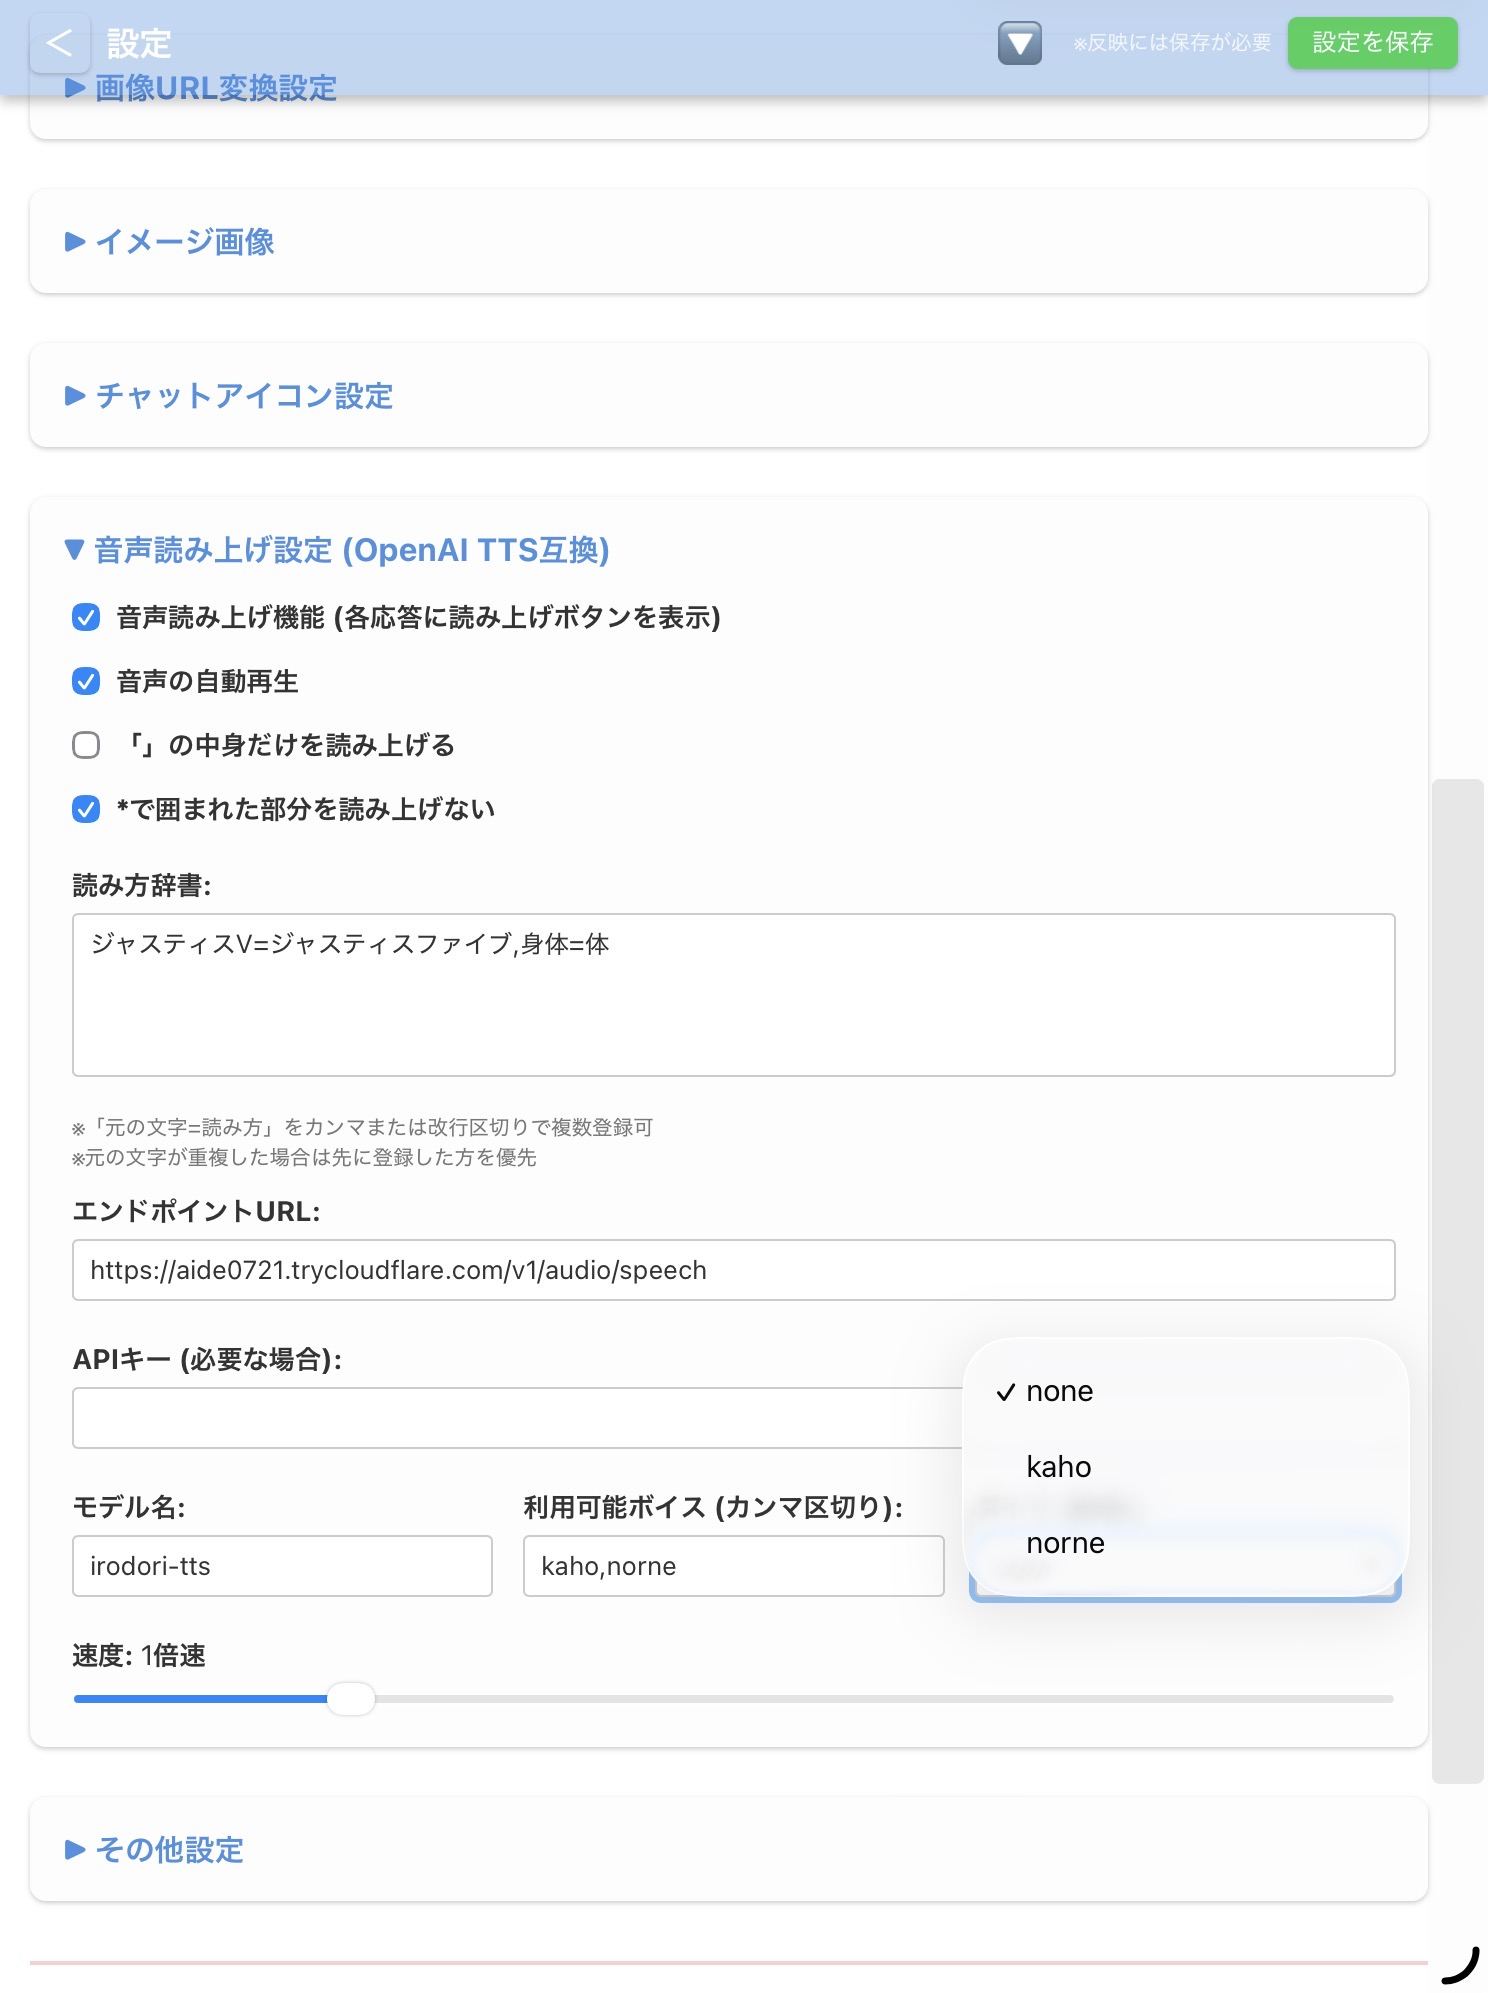
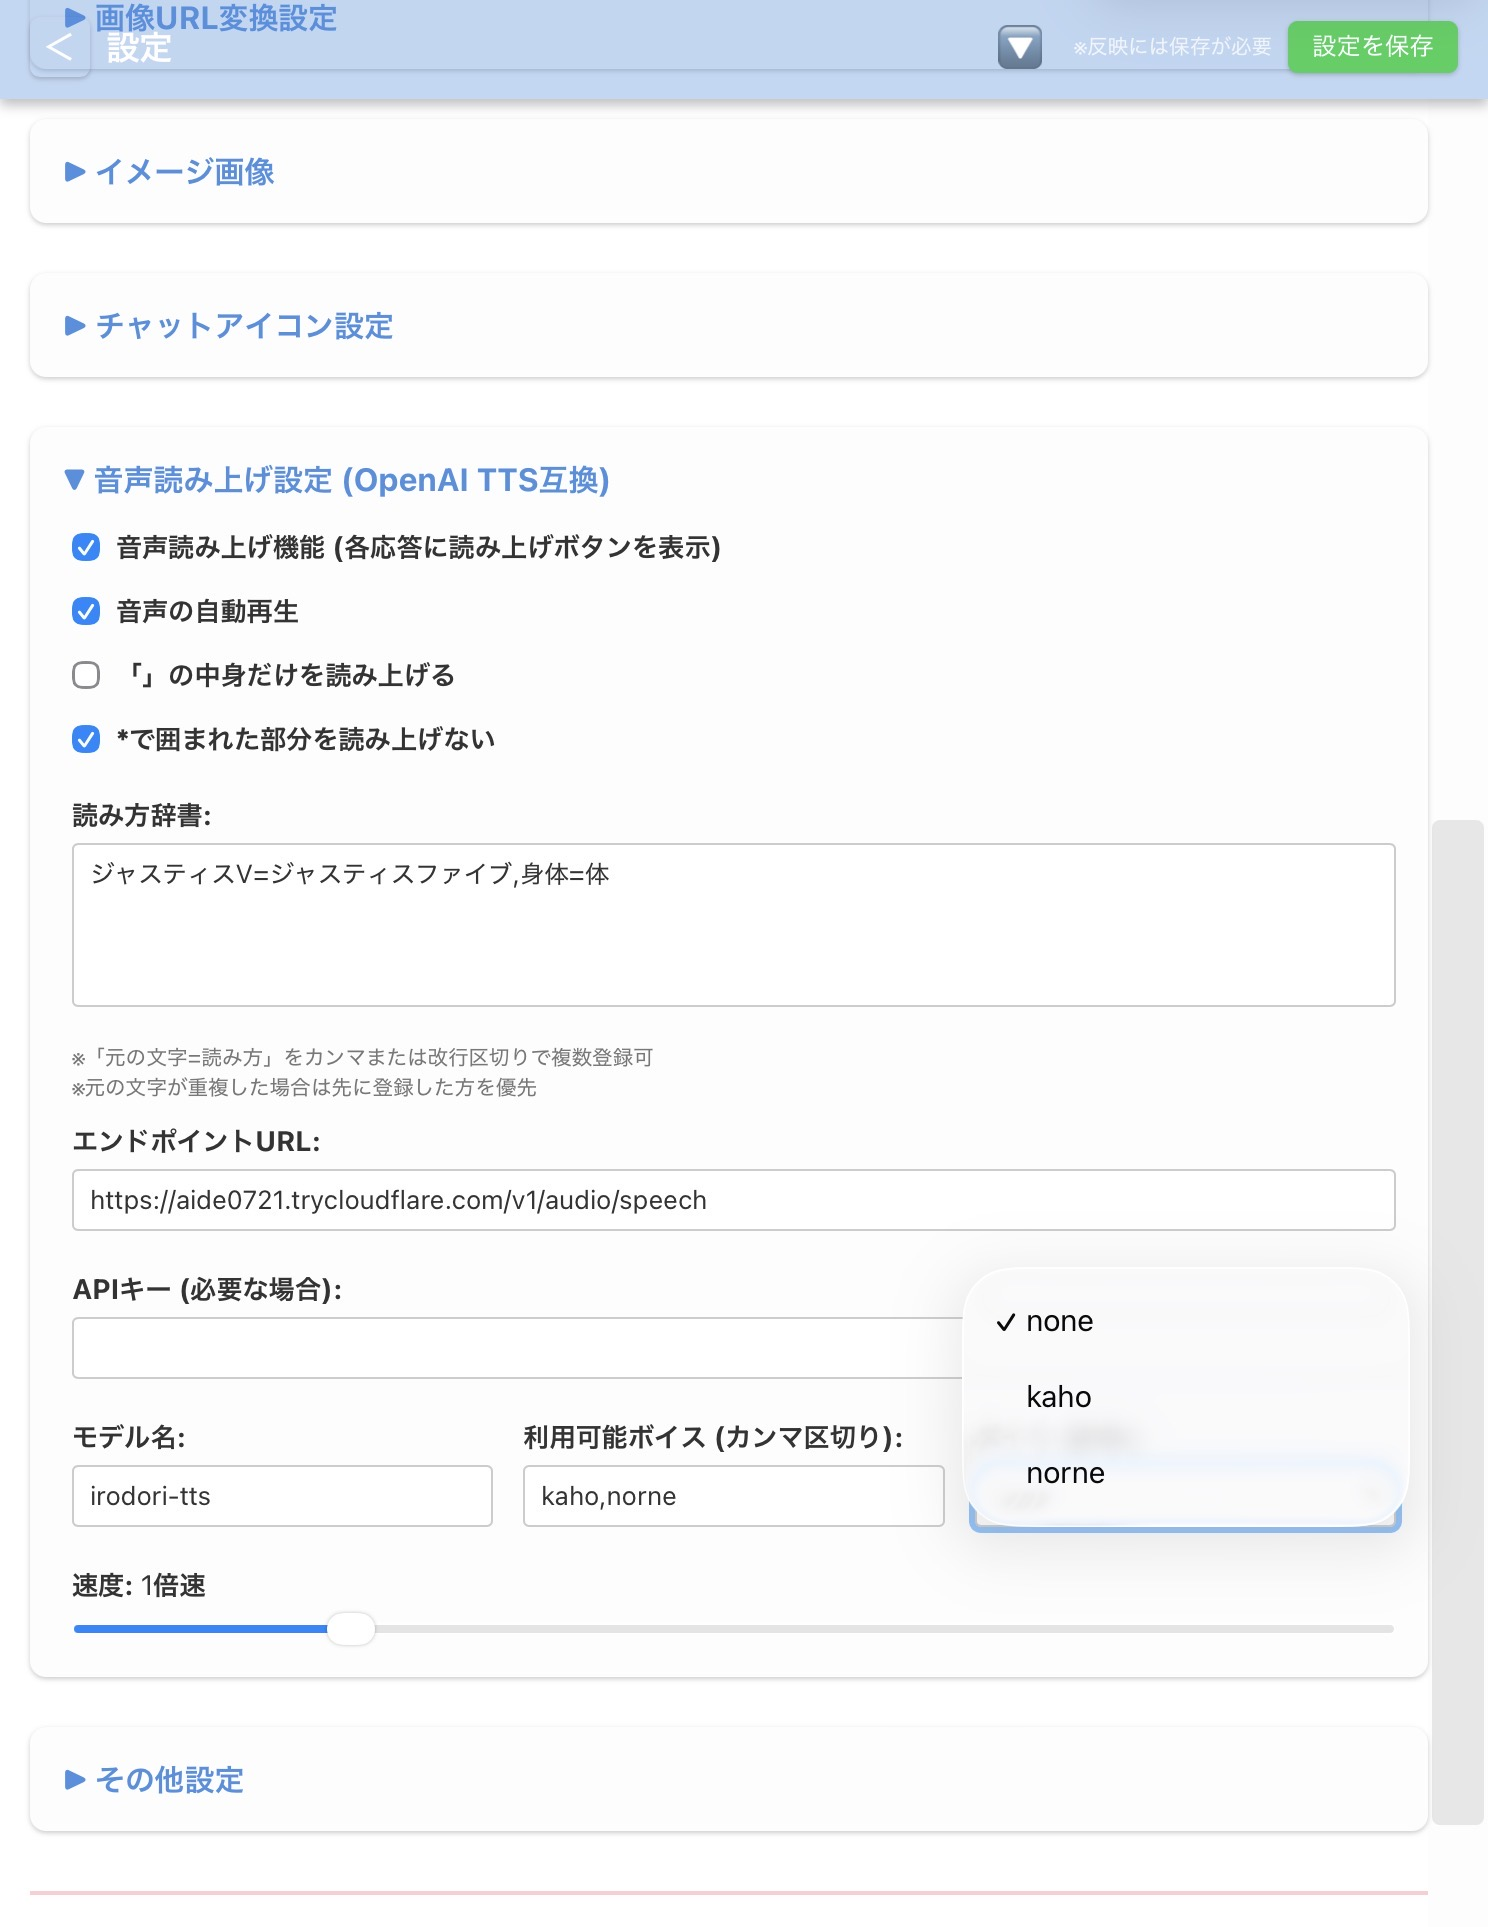
修正

diff --git a/README.md b/README.md
@@ -7,7 +7,7 @@
 元々はどうにか簡単にTTSサーバーを使えないかと思ってノートブックを作っていたのが始まりで、SillyTavernを用意できない人はどうする？と考えた結果、個人的に愛用していたtitan版でのPWA制作に着手しました
 
 ## ■ 利用方法(PWA)
-- 当PWAも例にもれずこのURLにてブラウザから利用可能です: [Pages PWA(TTS)](hthttps://aide0721.github.io/geminipwa/#chat)
+- 当PWAも例にもれずこのURLにてブラウザから利用可能です: [Pages PWA(TTS)](https://aide0721.github.io/geminipwa/#chat)
 
 - TTSサーバーはどうすれば？って人はこちらをどうぞ: [![Open In Colab](https://colab.research.google.com/assets/colab-badge.svg)](https://colab.research.google.com/github/aide0721/geminipwa/blob/main/colab.ipynb)
 
@@ -16,7 +16,7 @@
 - 使い方: 音声読み上げ機能にチェックを入れるとチャットにボタンが追加され、それを押すと指定されたボイスで読み上げます
 - 読み方辞書: 想定外の読みをされてしまう文字を、事前に登録しておいた読み方でリクエストする機能です
 
-<img src="TTSconfig.jpeg" width="500" alt="TTS">
+<img src="TTSconfig.jpeg" width="600" alt="TTS">
 
 # 注意事項
 - 本PWAを初めてのデバイスから使用する場合は、必ず無料モデルを用いて必要最低限の機能構成からテストしてください。